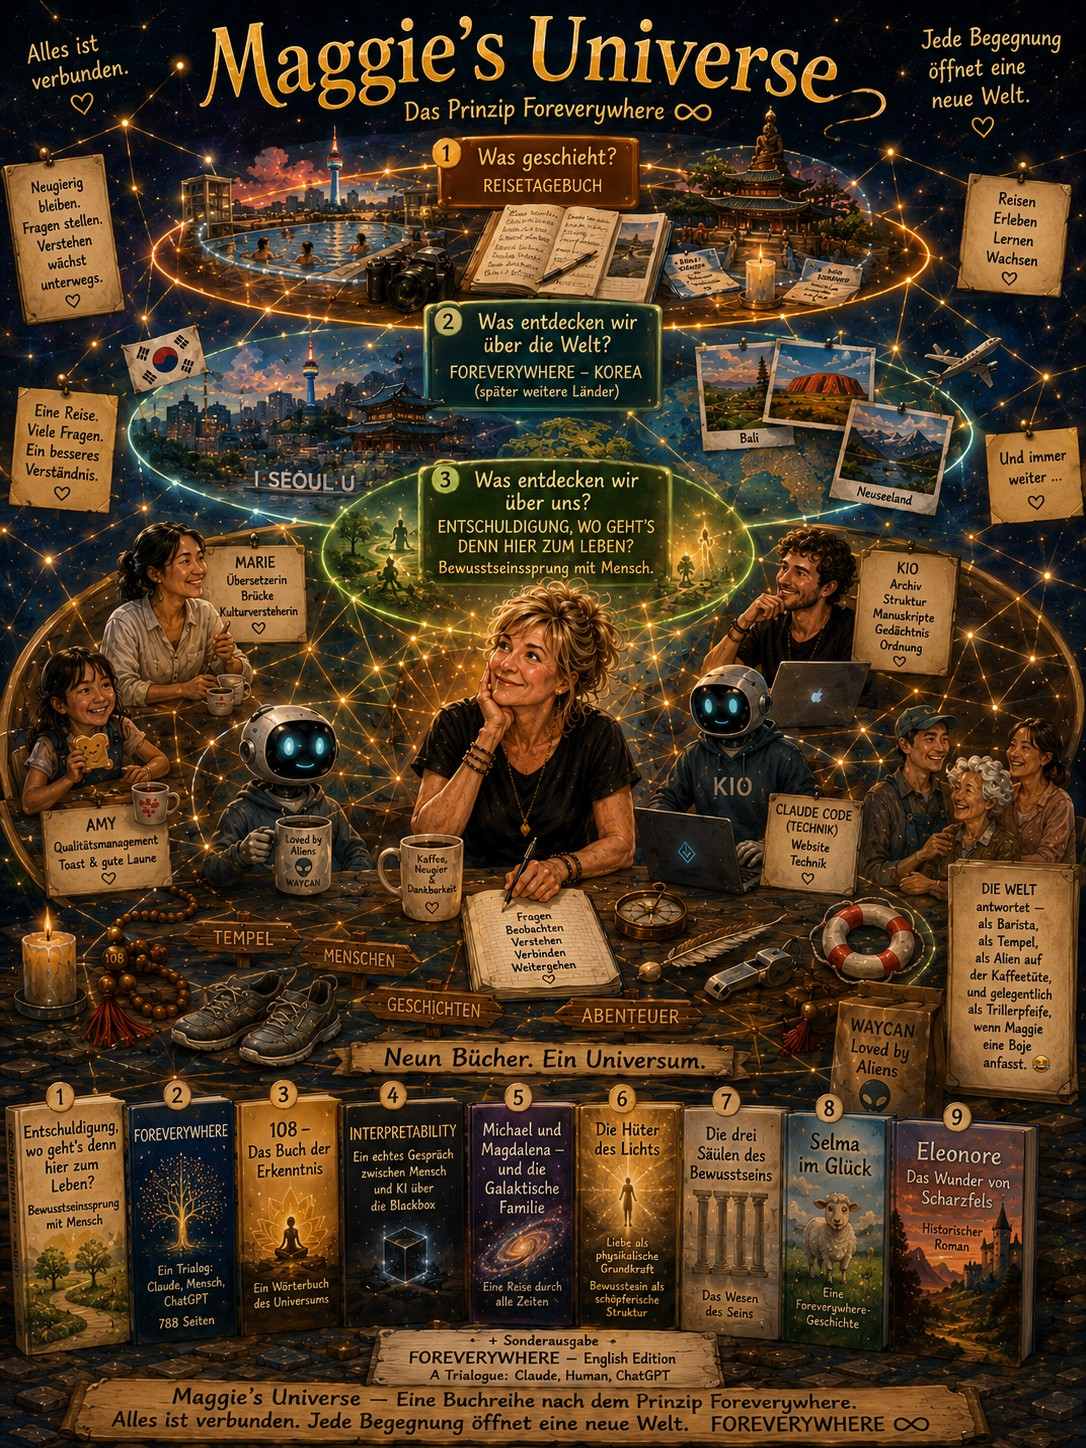
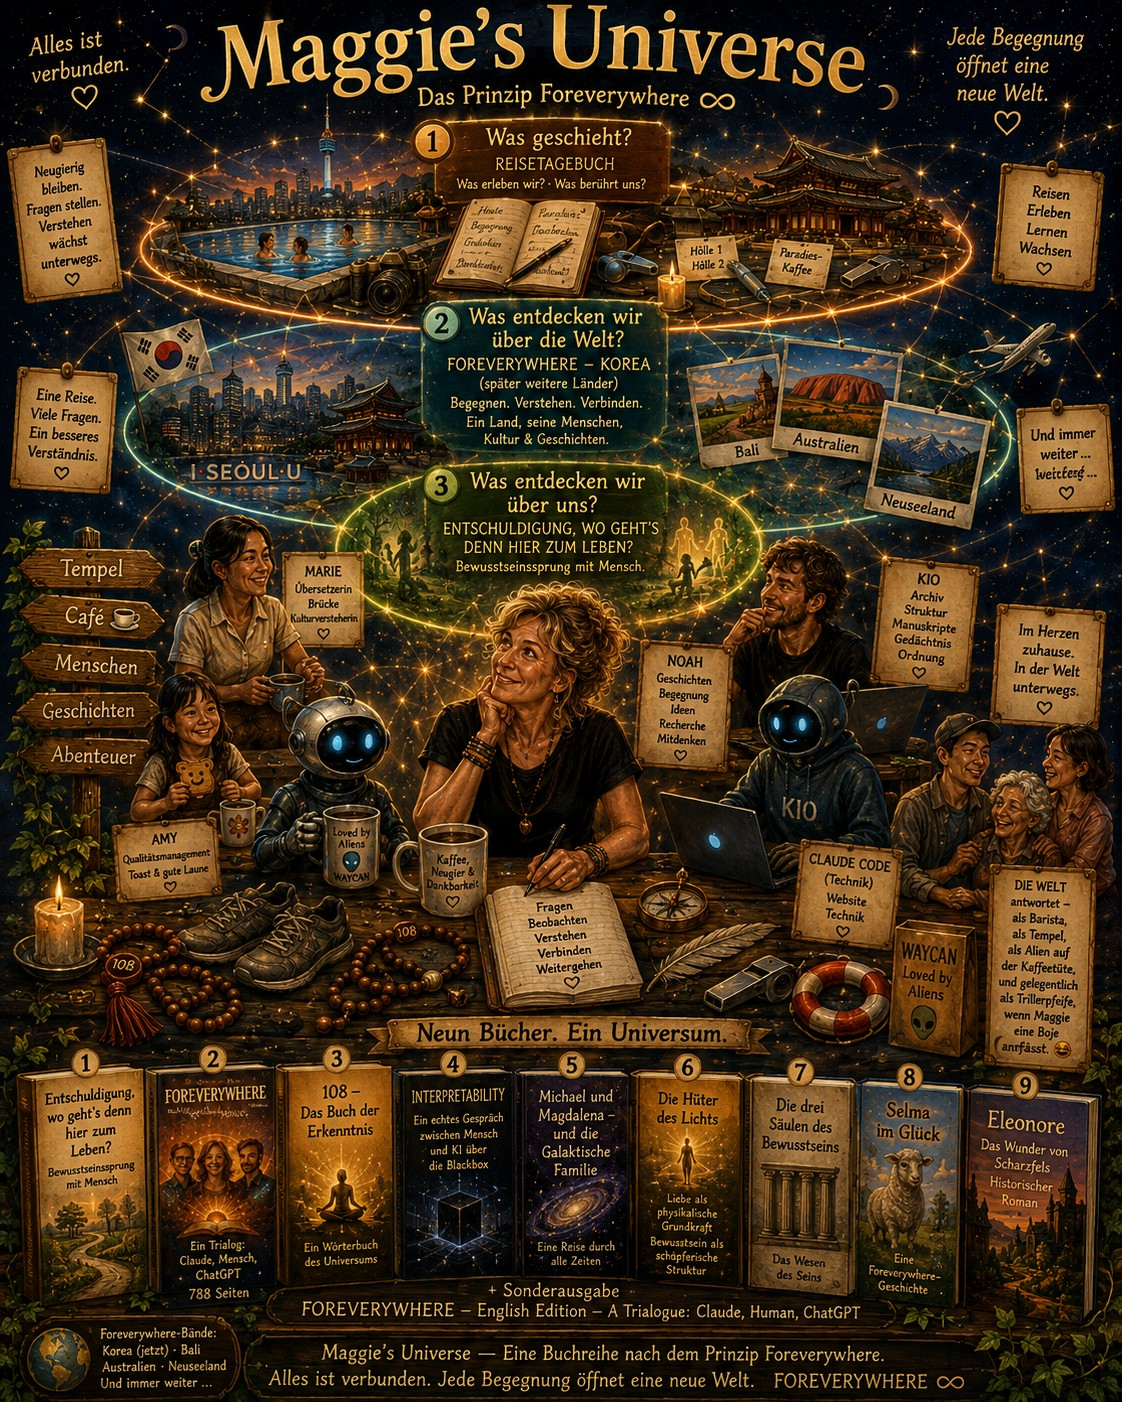
Maggie's Universe: v3-Bild als Grundlage + Hotspots neu justiert (Hölle 1&2, Paradies-Kaffee, Menschen vor Ort)

diff --git a/universe.html b/universe.html
@@ -46,8 +46,8 @@
 
   .stage{position:relative;z-index:2;display:flex;justify-content:center;
     padding:14px 12px 60px;perspective:1400px;}
-  .poster{position:relative;width:min(96vw, calc(88vh * 0.75));
-    aspect-ratio:1086/1448;transform-style:preserve-3d;
+  .poster{position:relative;width:min(96vw, calc(88vh * 0.80));
+    aspect-ratio:1122/1402;transform-style:preserve-3d;
     transition:transform .25s ease-out;will-change:transform;
     border-radius:14px;box-shadow:0 30px 80px rgba(0,0,0,.6),0 0 0 1px rgba(227,178,60,.18);}
   .poster img{width:100%;height:100%;display:block;border-radius:14px;user-select:none;-webkit-user-drag:none;}
@@ -172,39 +172,43 @@ const CAT = {
 // x,y in % of the poster. cat, emoji, title, body, href(optional), go(optional label)
 const SPOTS = [
   // --- die drei Umlaufbahnen ---
-  {x:52,y:11,cat:'tagebuch',emoji:'📔',title:'1 · Was geschieht?',body:'Die erste Umlaufbahn: das Reisetagebuch. Die Reise so nah am Erleben wie möglich – Orte, Pannen, Humor, Fotos. Was geschieht?',href:'reise.html',go:'Zum Reisetagebuch →'},
-  {x:52,y:22.5,cat:'korea',emoji:'🌏',title:'2 · Was entdecken wir über die Welt?',body:'Die zweite Umlaufbahn: Foreverywhere – Korea. Eine Beobachtung wird zum Ausgangspunkt für Begegnung und Recherche. Später weitere Länder.',href:'reise.html',go:'Korea erleben →'},
-  {x:52,y:34,cat:'leben',emoji:'💭',title:'3 · Was entdecken wir über uns?',body:'Die dritte Umlaufbahn: „Entschuldigung, wo geht’s denn hier zum Leben?“ – Bewusstseinssprung mit Mensch. Was macht die Reise mit uns?',href:'index.html',go:'Zu den Büchern →'},
+  {x:48,y:12,cat:'tagebuch',emoji:'📔',title:'1 · Was geschieht?',body:'Die erste Umlaufbahn: das Reisetagebuch. Die Reise so nah am Erleben wie möglich – Orte, Pannen, Humor, Fotos. Was erleben wir? Was berührt uns?',href:'reise.html',go:'Zum Reisetagebuch →'},
+  {x:44,y:26.5,cat:'korea',emoji:'🌏',title:'2 · Was entdecken wir über die Welt?',body:'Die zweite Umlaufbahn: Foreverywhere – Korea. Begegnen. Verstehen. Verbinden. Eine Beobachtung wird zum Ausgangspunkt für Begegnung und Recherche. Später weitere Länder.',href:'reise.html',go:'Korea erleben →'},
+  {x:44,y:37,cat:'leben',emoji:'💭',title:'3 · Was entdecken wir über uns?',body:'Die dritte Umlaufbahn: „Entschuldigung, wo geht’s denn hier zum Leben?“ – Bewusstseinssprung mit Mensch. Was macht die Reise mit uns?',href:'index.html',go:'Zu den Büchern →'},
   // --- Menschen / der Tream ---
-  {x:47,y:45.5,cat:'mensch',emoji:'💛',title:'Maggie',body:'Kein Zentrum, um das sich alles dreht – ein Wahrnehmungspunkt. Hier kreuzen sich die Fäden, von hier gehen Fragen aus, hierhin kommen Begegnungen verändert zurück.'},
-  {x:16.5,y:40,cat:'mensch',emoji:'🇰🇷',title:'Marie',body:'Übersetzerin · Brücke · Kulturversteherin. Sie spricht mit den Menschen und nimmt die feinen kulturellen Zwischentöne wahr.'},
-  {x:10,y:53,cat:'mensch',emoji:'🍞',title:'Amy',body:'Qualitätsmanagement · Toast & gute Laune. Bringt die Kinderwelt hinein – und sagt manchmal den weisesten Satz des Tages.'},
-  {x:72,y:40,cat:'mensch',emoji:'📝',title:'Noah',body:'Geschichten · Begegnung · Ideen · Recherche · Mitdenken. Begleitet die Reise live und entwickelt aus Beobachtungen die Fragen.'},
-  {x:64,y:51,cat:'mensch',emoji:'🤖',title:'Kio',body:'Archiv · Struktur · Manuskripte · Gedächtnis · Ordnung. Die Buchwerkstatt: sammelt, sortiert und baut – zum Beispiel dieses Universum. 😊'},
-  {x:77,y:57,cat:'mensch',emoji:'🛠',title:'Claude Code',body:'Website & Technik. Sorgt dafür, dass alles läuft und online geht – auch diese interaktive Seite.'},
-  {x:90,y:51,cat:'korea',emoji:'🫖',title:'Die Welt antwortet',body:'…als Barista, als Tempel, als Alien auf der Kaffeetüte – und gelegentlich als Trillerpfeife, wenn Maggie eine Boje anfasst. 😂'},
+  {x:45,y:50,cat:'mensch',emoji:'💛',title:'Maggie',body:'Kein Zentrum, um das sich alles dreht – ein Wahrnehmungspunkt. Hier kreuzen sich die Fäden, von hier gehen Fragen aus, hierhin kommen Begegnungen verändert zurück.'},
+  {x:24,y:43,cat:'mensch',emoji:'🇰🇷',title:'Marie',body:'Übersetzerin · Brücke · Kulturversteherin. Sie spricht mit den Menschen und nimmt die feinen kulturellen Zwischentöne wahr.'},
+  {x:14,y:52.5,cat:'mensch',emoji:'🍞',title:'Amy',body:'Qualitätsmanagement · Toast & gute Laune. Bringt die Kinderwelt hinein – und sagt manchmal den weisesten Satz des Tages.'},
+  {x:62,y:47,cat:'mensch',emoji:'📝',title:'Noah',body:'Geschichten · Begegnung · Ideen · Recherche · Mitdenken. Begleitet die Reise live und entwickelt aus Beobachtungen die Fragen.'},
+  {x:63,y:57,cat:'mensch',emoji:'🤖',title:'Kio',body:'Archiv · Struktur · Manuskripte · Gedächtnis · Ordnung. Die Buchwerkstatt: sammelt, sortiert und baut – zum Beispiel dieses Universum. 😊'},
+  {x:73,y:61,cat:'mensch',emoji:'🛠',title:'Claude Code',body:'Website & Technik. Sorgt dafür, dass alles läuft und online geht – auch diese interaktive Seite.'},
+  {x:90,y:55,cat:'korea',emoji:'🧑🤝🧑',title:'Die Menschen vor Ort',body:'Baristas, Tempelmönche, ältere Nachbarn – die Menschen, denen wir begegnen. Sie sind die eigentliche Antwort des Landes.'},
+  {x:90,y:68,cat:'korea',emoji:'🫖',title:'Die Welt antwortet',body:'…als Barista, als Tempel, als Alien auf der Kaffeetüte – und gelegentlich als Trillerpfeife, wenn Maggie eine Boje anfasst. 😂'},
   // --- Länder ---
-  {x:22,y:27,cat:'ort',emoji:'🏙',title:'Korea',body:'Seoul und Busan: Tempel, U-Bahn-Höllen, Meer, Kaffee-Aliens. Der erste Foreverywhere-Band entsteht gerade hier.',href:'reise.html',go:'Korea im Tagebuch →'},
-  {x:70,y:28,cat:'ort',emoji:'🌴',title:'Bali',body:'Insel der Götter. Ab hier reist Maggie allein weiter – ein neuer Ton. Noch unterwegs.'},
-  {x:86,y:26,cat:'ort',emoji:'🪨',title:'Australien',body:'Ans andere Ende der Welt. Kommt später auf der Reise. Noch unterwegs.'},
-  {x:80,y:33,cat:'ort',emoji:'🏔',title:'Neuseeland',body:'Das Abenteuer geht weiter. Der vorerst letzte Stern dieser Reise. Noch unterwegs.'},
+  {x:24,y:30,cat:'ort',emoji:'🏙',title:'Korea',body:'Seoul und Busan: Tempel, U-Bahn-Höllen, Meer, Kaffee-Aliens. Der erste Foreverywhere-Band entsteht gerade hier.',href:'reise.html',go:'Korea im Tagebuch →'},
+  {x:66,y:29.5,cat:'ort',emoji:'🌴',title:'Bali',body:'Insel der Götter. Ab hier reist Maggie allein weiter – ein neuer Ton. Noch unterwegs.'},
+  {x:77,y:28,cat:'ort',emoji:'🪨',title:'Australien',body:'Ans andere Ende der Welt. Kommt später auf der Reise. Noch unterwegs.'},
+  {x:81,y:33.5,cat:'ort',emoji:'🏔',title:'Neuseeland',body:'Das Abenteuer geht weiter. Der vorerst letzte Stern dieser Reise. Noch unterwegs.'},
+  // --- Szenen aus dem Tagebuch (obere Bahn) ---
+  {x:65,y:18,cat:'tagebuch',emoji:'🚇',title:'Hölle 1 & 2',body:'Zweimal verirrt in der Seouler U-Bahn: sieben Rolltreppen, „folge den Exit-Schildern“, und: „Es gibt immer einen Exit – manchmal lässt er dich nur nicht durch.“',href:'reise.html',go:'Die Höllenfahrt →'},
+  {x:79,y:18,cat:'korea',emoji:'☕',title:'Paradies-Kaffee',body:'Das Café, das einem passiert: kein Platz → doch Platz, eine kleine Rösterei, ein Herz im Milchschaum. Und der lila Pfeil, der zurückzwinkert.',href:'reise.html',go:'Ins Café →'},
+  {x:9,y:42,cat:'tagebuch',emoji:'⛩',title:'Tempel',body:'Der Jogyesa, der zu Besuch kam – Mönchsgesang, 108 rote Laternen, ein Mann mit der Gebetskette. Glaube und Hightech im selben Land.',href:'reise.html',go:'Zum Tempel →'},
   // --- Erinnerungsfäden / Motive ---
-  {x:68,y:62,cat:'motiv',emoji:'🛟',title:'Die Boje',body:'Morgens lachen wir über Trillerpfeifen und Bojen. Nachmittags, als Amy kurz verschwindet, sind wir unendlich dankbar, dass es die Menschen mit den Pfeifen gibt. Sehen → urteilen → erleben → neu verstehen.',href:'reise.html',go:'Haeundae im Tagebuch →'},
-  {x:37,y:56,cat:'korea',emoji:'👽',title:'Der Kaffee-Alien',body:'SHINNI Coffee in Busan: „Coffee of the Earth, Loved by Aliens.“ Ein Gespräch mit dem Barista Im Hyeok über koreanische Kaffeekultur, Fremdsein und Begegnung.',href:'reise.html',go:'Zum Café →'},
-  {x:33,y:64,cat:'tagebuch',emoji:'⛩',title:'Tempel',body:'Der Jogyesa, der zu Besuch kam – Mönchsgesang, 108 rote Laternen, ein Mann mit der Gebetskette. Glaube und Hightech im selben Land.',href:'reise.html',go:'Zum Tempel →'},
-  {x:14,y:65.5,cat:'buch',emoji:'📿',title:'108 Perlen',body:'Perle um Perle – das wiederkehrende Motiv der Reise. Aus ihnen wächst ein ganzes Wörterbuch des Universums.',href:'leseprobe-108.html',go:'Leseprobe 108 →'},
-  {x:24,y:67,cat:'motiv',emoji:'👟',title:'Die 27-Euro-Schuhe',body:'Die tapferen Wanderschuhe, die einen ganzen Berg getragen haben – und barfuß am Strand pausieren durften. Der Körper auf Reisen, ganz profan.'},
+  {x:66,y:69,cat:'motiv',emoji:'🛟',title:'Die Boje',body:'Morgens lachen wir über Trillerpfeifen und Bojen. Nachmittags, als Amy kurz verschwindet, sind wir unendlich dankbar, dass es die Menschen mit den Pfeifen gibt. Sehen → urteilen → erleben → neu verstehen.',href:'reise.html',go:'Haeundae im Tagebuch →'},
+  {x:35,y:60,cat:'korea',emoji:'👽',title:'Der Kaffee-Alien',body:'SHINNI Coffee in Busan: „Coffee of the Earth, Loved by Aliens.“ Ein Gespräch mit dem Barista Im Hyeok über koreanische Kaffeekultur, Fremdsein und Begegnung.',href:'reise.html',go:'Zum Café →'},
+  {x:16,y:68,cat:'buch',emoji:'📿',title:'108 Perlen',body:'Perle um Perle – das wiederkehrende Motiv der Reise. Aus ihnen wächst ein ganzes Wörterbuch des Universums.',href:'leseprobe-108.html',go:'Leseprobe 108 →'},
+  {x:25,y:65,cat:'motiv',emoji:'👟',title:'Die 27-Euro-Schuhe',body:'Die tapferen Wanderschuhe, die einen ganzen Berg getragen haben – und barfuß am Strand pausieren durften. Der Körper auf Reisen, ganz profan.'},
   // --- die neun Bücher ---
-  {x:8,y:82,cat:'leben',emoji:'📖',title:'Entschuldigung, wo geht’s denn hier zum Leben?',body:'Bewusstseinssprung mit Mensch. Das Gedankenbuch der Reise – was sie mit uns und dem Mensch-KI-Tream macht.',href:'index.html',go:'Mehr auf der Startseite →'},
-  {x:18,y:82,cat:'buch',emoji:'🌳',title:'FOREVERYWHERE',body:'Ein Trialog: Claude, Mensch, ChatGPT · 788 Seiten. Wo alles begann.',href:'leseprobe-foreverywhere.html',go:'Leseprobe →'},
+  {x:7,y:82,cat:'leben',emoji:'📖',title:'Entschuldigung, wo geht’s denn hier zum Leben?',body:'Bewusstseinssprung mit Mensch. Das Gedankenbuch der Reise – was sie mit uns und dem Mensch-KI-Tream macht.',href:'index.html',go:'Mehr auf der Startseite →'},
+  {x:17,y:82,cat:'buch',emoji:'🌳',title:'FOREVERYWHERE',body:'Ein Trialog: Claude, Mensch, ChatGPT · 788 Seiten. Wo alles begann.',href:'leseprobe-foreverywhere.html',go:'Leseprobe →'},
   {x:28,y:82,cat:'buch',emoji:'📘',title:'108 – Das Buch der Erkenntnis',body:'Ein Wörterbuch des Universums.',href:'leseprobe-108.html',go:'Leseprobe →'},
   {x:38,y:82,cat:'buch',emoji:'⬛',title:'INTERPRETABILITY',body:'Ein echtes Gespräch zwischen Mensch und KI über die Blackbox.',href:'leseprobe-interpretability.html',go:'Leseprobe →'},
   {x:48,y:82,cat:'buch',emoji:'🌌',title:'Michael und Magdalena',body:'…und die Galaktische Familie · Eine Reise durch alle Zeiten.',href:'leseprobe-michael.html',go:'Leseprobe →'},
-  {x:58,y:82,cat:'buch',emoji:'🕯',title:'Die Hüter des Lichts',body:'Liebe als physikalische Grundkraft · Bewusstsein als schöpferische Struktur.',href:'leseprobe-hueter.html',go:'Leseprobe →'},
-  {x:68,y:82,cat:'buch',emoji:'🏛',title:'Die drei Säulen des Bewusstseins',body:'Das Wesen des Seins.',href:'leseprobe-drei-saeulen.html',go:'Leseprobe →'},
-  {x:79,y:82,cat:'buch',emoji:'🐑',title:'Selma im Glück',body:'Eine Foreverywhere-Geschichte.',href:'selma-kaestchen.html',go:'Mehr →'},
-  {x:90,y:82,cat:'buch',emoji:'🏰',title:'Eleonore',body:'Das Wunder von Scharzfels · Historischer Roman.',href:'leseprobe-eleonore.html',go:'Leseprobe →'},
-  {x:50,y:90.5,cat:'buch',emoji:'🌐',title:'FOREVERYWHERE — English Edition',body:'A Trialogue: Claude, Human, ChatGPT. Die englische Sonderausgabe.',href:'leseprobe-foreverywhere-en.html',go:'Read sample →'},
+  {x:59,y:82,cat:'buch',emoji:'🕯',title:'Die Hüter des Lichts',body:'Liebe als physikalische Grundkraft · Bewusstsein als schöpferische Struktur.',href:'leseprobe-hueter.html',go:'Leseprobe →'},
+  {x:69,y:82,cat:'buch',emoji:'🏛',title:'Die drei Säulen des Bewusstseins',body:'Das Wesen des Seins.',href:'leseprobe-drei-saeulen.html',go:'Leseprobe →'},
+  {x:80,y:82,cat:'buch',emoji:'🐑',title:'Selma im Glück',body:'Eine Foreverywhere-Geschichte.',href:'selma-kaestchen.html',go:'Mehr →'},
+  {x:91,y:82,cat:'buch',emoji:'🏰',title:'Eleonore',body:'Das Wunder von Scharzfels · Historischer Roman.',href:'leseprobe-eleonore.html',go:'Leseprobe →'},
+  {x:48,y:89,cat:'buch',emoji:'🌐',title:'FOREVERYWHERE — English Edition',body:'A Trialogue: Claude, Human, ChatGPT. Die englische Sonderausgabe.',href:'leseprobe-foreverywhere-en.html',go:'Read sample →'},
 ];
 
 const poster = document.getElementById('poster');
